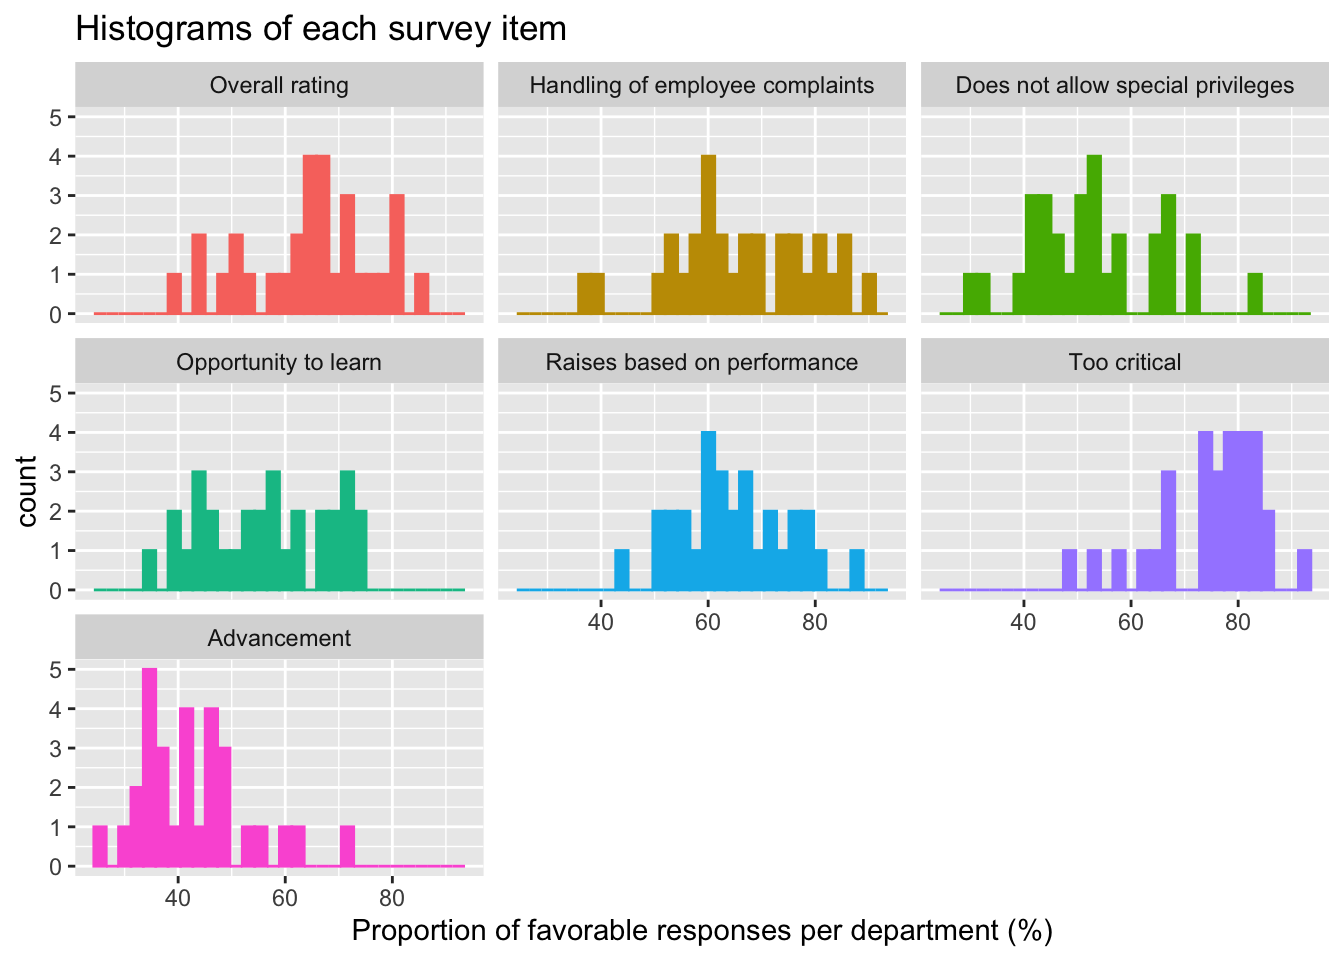
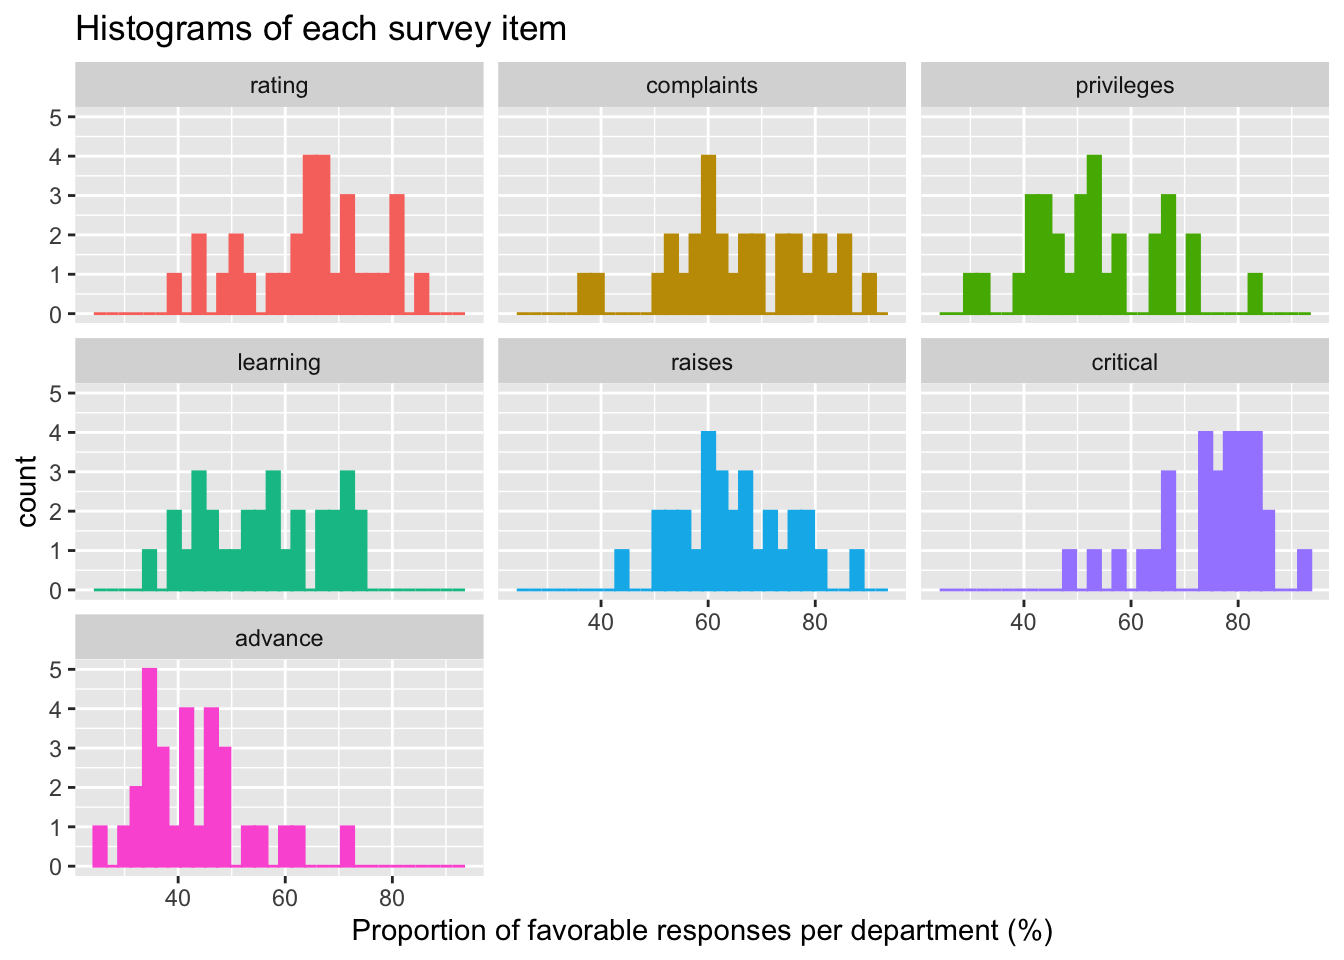
attitude example tables and text cleanup
streamlined variable text by adding a variable key table so shorter variable names could be used

diff --git a/docs/hypothesis_generation.html b/docs/hypothesis_generation.html
@@ -123,6 +123,7 @@ div.csl-indent {
     "search-label": "Search"
   }
 }</script>
+<link href="site_libs/htmltools-fill-0.5.8.1/fill.css" rel="stylesheet">
 <script src="site_libs/htmlwidgets-1.6.4/htmlwidgets.js"></script>
 <link href="site_libs/datatables-css-0.0.0/datatables-crosstalk.css" rel="stylesheet">
 <script src="site_libs/datatables-binding-0.33/datatables.js"></script>
@@ -132,7 +133,6 @@ div.csl-indent {
 <script src="site_libs/dt-core-1.13.6/js/jquery.dataTables.min.js"></script>
 <link href="site_libs/crosstalk-1.2.1/css/crosstalk.min.css" rel="stylesheet">
 <script src="site_libs/crosstalk-1.2.1/js/crosstalk.min.js"></script>
-<link href="site_libs/htmltools-fill-0.5.8.1/fill.css" rel="stylesheet">
 
   <script src="https://polyfill.io/v3/polyfill.min.js?features=es6"></script>
   <script src="https://cdn.jsdelivr.net/npm/mathjax@3/es5/tex-chtml-full.js" type="text/javascript"></script>
@@ -327,47 +327,85 @@ window.Quarto = {
 <p>In some cases, description and quantification of a phenomenon might itself satisfy your immediate research question. This is often the case when description alone is a considerable challenge, such as when a dataset is especially large or complex. The toolbox of descriptive analysis includes many techniques for summarizing and organizing a dataset to reveal its structure in human-readable terms.</p>
 <section id="initial-description-summary-statistics-and-distribution-visualizations" class="level4">
 <h4 class="anchored" data-anchor-id="initial-description-summary-statistics-and-distribution-visualizations">Initial description: summary statistics and distribution visualizations</h4>
-<p>Let’s use an example dataset from the <code>datasets</code> package in R to illustrate some of these descriptive analyses in action. The <code>attitude</code> dataset contains aggregated data from the Chatterjee-Price attitude survey, in which clerical employees across 30 departments of a large organization were asked to evaluate their employers on a series of topics. Each row of the data frame corresponds to one department, and the values in each column are the percent of favorable responses to each question from across employees sampled in a given department. The dataset is previewed in <a href="#tbl-attitude_example_data" class="quarto-xref">Table&nbsp;<span>1.1</span></a> (I’ve renamed the variables based on the <a href="https://rdrr.io/r/datasets/attitude.html">documentation</a> for interpretability).</p>
+<p>Let’s use an example dataset from the <code>datasets</code> package in R to illustrate some of these descriptive analyses in action.</p>
+<p>The <code>attitude</code> dataset contains aggregated data from the Chatterjee-Price attitude survey, in which clerical employees across 30 departments of a large organization were asked to evaluate their employers on a series of topics. These topic questions are organized into 7 variables, shown and described in <a href="#tbl-attitude_varnames_md" class="quarto-xref">Table&nbsp;<span>1.1</span></a> (descriptions derived from the dataset’s <a href="https://rdrr.io/r/datasets/attitude.html">documentation</a>).</p>
+<div id="tbl-attitude_varnames_md" class="quarto-float anchored">
+<figure class="quarto-float quarto-float-tbl figure">
+<figcaption class="quarto-float-caption-top quarto-float-caption quarto-float-tbl quarto-uncaptioned" id="tbl-attitude_varnames_md-caption-0ceaefa1-69ba-4598-a22c-09a6ac19f8ca">
+Table&nbsp;1.1
+</figcaption>
+<div aria-describedby="tbl-attitude_varnames_md-caption-0ceaefa1-69ba-4598-a22c-09a6ac19f8ca">
+<table class="table">
+<thead>
+<tr class="header">
+<th style="text-align: center;">Variable</th>
+<th style="text-align: left;">Item description</th>
+</tr>
+</thead>
+<tbody>
+<tr class="odd">
+<td style="text-align: center;"><code>rating</code></td>
+<td style="text-align: left;">Overall rating</td>
+</tr>
+<tr class="even">
+<td style="text-align: center;"><code>complaints</code></td>
+<td style="text-align: left;">Handling of employee complaints</td>
+</tr>
+<tr class="odd">
+<td style="text-align: center;"><code>privileges</code></td>
+<td style="text-align: left;">Does not allow special privileges</td>
+</tr>
+<tr class="even">
+<td style="text-align: center;"><code>learning</code></td>
+<td style="text-align: left;">Opportunity to learn</td>
+</tr>
+<tr class="odd">
+<td style="text-align: center;"><code>raises</code></td>
+<td style="text-align: left;">Raises based on performance</td>
+</tr>
+<tr class="even">
+<td style="text-align: center;"><code>critical</code></td>
+<td style="text-align: left;">Too critical</td>
+</tr>
+<tr class="odd">
+<td style="text-align: center;"><code>advance</code></td>
+<td style="text-align: left;">Advancement</td>
+</tr>
+</tbody>
+</table>
+</div>
+</figure>
+</div>
+<p>The complete <code>attitude</code> dataset is rendered in <a href="#tbl-attitude_example_data" class="quarto-xref">Table&nbsp;<span>1.2</span></a>. Each row of the data frame corresponds to one of the organization’s departments, and the values in each column are the percentages of favorable responses to each topic question given by the employees sampled in a given department.</p>
 <div class="cell">
 <details class="code-fold">
 <summary>Show code</summary>
 <div class="sourceCode cell-code" id="cb1"><pre class="sourceCode r code-with-copy"><code class="sourceCode r"><span id="cb1-1"><a href="#cb1-1" aria-hidden="true" tabindex="-1"></a><span class="co"># Load attitude data</span></span>
 <span id="cb1-2"><a href="#cb1-2" aria-hidden="true" tabindex="-1"></a><span class="fu">data</span>(<span class="st">"attitude"</span>)</span>
 <span id="cb1-3"><a href="#cb1-3" aria-hidden="true" tabindex="-1"></a></span>
-<span id="cb1-4"><a href="#cb1-4" aria-hidden="true" tabindex="-1"></a><span class="co"># Rename using full variable names from help file</span></span>
-<span id="cb1-5"><a href="#cb1-5" aria-hidden="true" tabindex="-1"></a>attitude_varnames_full <span class="ot">&lt;-</span> <span class="fu">c</span>(<span class="st">'Overall rating'</span>,</span>
-<span id="cb1-6"><a href="#cb1-6" aria-hidden="true" tabindex="-1"></a>                            <span class="st">'Handling of employee complaints'</span>,</span>
-<span id="cb1-7"><a href="#cb1-7" aria-hidden="true" tabindex="-1"></a>                            <span class="st">'Does not allow special privileges'</span>,</span>
-<span id="cb1-8"><a href="#cb1-8" aria-hidden="true" tabindex="-1"></a>                            <span class="st">'Opportunity to learn'</span>,</span>
-<span id="cb1-9"><a href="#cb1-9" aria-hidden="true" tabindex="-1"></a>                            <span class="st">'Raises based on performance'</span>,</span>
-<span id="cb1-10"><a href="#cb1-10" aria-hidden="true" tabindex="-1"></a>                            <span class="st">'Too critical'</span>,</span>
-<span id="cb1-11"><a href="#cb1-11" aria-hidden="true" tabindex="-1"></a>                            <span class="st">'Advancement'</span>)</span>
-<span id="cb1-12"><a href="#cb1-12" aria-hidden="true" tabindex="-1"></a><span class="fu">colnames</span>(attitude) <span class="ot">&lt;-</span> attitude_varnames_full</span>
-<span id="cb1-13"><a href="#cb1-13" aria-hidden="true" tabindex="-1"></a></span>
-<span id="cb1-14"><a href="#cb1-14" aria-hidden="true" tabindex="-1"></a><span class="co"># Data preview</span></span>
-<span id="cb1-15"><a href="#cb1-15" aria-hidden="true" tabindex="-1"></a><span class="fu">datatable</span>(attitude,</span>
-<span id="cb1-16"><a href="#cb1-16" aria-hidden="true" tabindex="-1"></a>          <span class="at">width =</span> <span class="dv">1000</span>,</span>
-<span id="cb1-17"><a href="#cb1-17" aria-hidden="true" tabindex="-1"></a>          <span class="at">caption =</span> htmltools<span class="sc">::</span>tags<span class="sc">$</span><span class="fu">caption</span>(</span>
-<span id="cb1-18"><a href="#cb1-18" aria-hidden="true" tabindex="-1"></a>            <span class="at">style =</span> <span class="st">'caption-side: bottom; text-align: left;'</span>,</span>
-<span id="cb1-19"><a href="#cb1-19" aria-hidden="true" tabindex="-1"></a>            <span class="st">'Direct preview of the Chatterjee-Price attitude survey data.'</span></span>
-<span id="cb1-20"><a href="#cb1-20" aria-hidden="true" tabindex="-1"></a>            ),</span>
-<span id="cb1-21"><a href="#cb1-21" aria-hidden="true" tabindex="-1"></a>          )</span></code><button title="Copy to Clipboard" class="code-copy-button"><i class="bi"></i></button></pre></div>
+<span id="cb1-4"><a href="#cb1-4" aria-hidden="true" tabindex="-1"></a><span class="co"># Data preview</span></span>
+<span id="cb1-5"><a href="#cb1-5" aria-hidden="true" tabindex="-1"></a><span class="fu">datatable</span>(attitude,</span>
+<span id="cb1-6"><a href="#cb1-6" aria-hidden="true" tabindex="-1"></a>          <span class="at">caption =</span> htmltools<span class="sc">::</span>tags<span class="sc">$</span><span class="fu">caption</span>(</span>
+<span id="cb1-7"><a href="#cb1-7" aria-hidden="true" tabindex="-1"></a>            <span class="at">style =</span> <span class="st">'caption-side: bottom; text-align: left;'</span>,</span>
+<span id="cb1-8"><a href="#cb1-8" aria-hidden="true" tabindex="-1"></a>            <span class="st">'Direct preview of the Chatterjee-Price attitude survey data.'</span></span>
+<span id="cb1-9"><a href="#cb1-9" aria-hidden="true" tabindex="-1"></a>            ),</span>
+<span id="cb1-10"><a href="#cb1-10" aria-hidden="true" tabindex="-1"></a>          )</span></code><button title="Copy to Clipboard" class="code-copy-button"><i class="bi"></i></button></pre></div>
 </details>
 <div id="tbl-attitude_example_data" class="cell quarto-float anchored">
 <figure class="quarto-float quarto-float-tbl figure">
 <figcaption class="quarto-float-caption-top quarto-float-caption quarto-float-tbl quarto-uncaptioned" id="tbl-attitude_example_data-caption-0ceaefa1-69ba-4598-a22c-09a6ac19f8ca">
-Table&nbsp;1.1
+Table&nbsp;1.2
 </figcaption>
 <div aria-describedby="tbl-attitude_example_data-caption-0ceaefa1-69ba-4598-a22c-09a6ac19f8ca">
 <div class="cell-output-display">
-<div id="htmlwidget-98e45a375563ade7b869" style="width:1000px;height:auto;" class="datatables html-widget"></div>
-<script type="application/json" data-for="htmlwidget-98e45a375563ade7b869">{"x":{"filter":"none","vertical":false,"caption":"<caption style=\"caption-side: bottom; text-align: left;\">Direct preview of the Chatterjee-Price attitude survey data.<\/caption>","data":[["1","2","3","4","5","6","7","8","9","10","11","12","13","14","15","16","17","18","19","20","21","22","23","24","25","26","27","28","29","30"],[43,63,71,61,81,43,58,71,72,67,64,67,69,68,77,81,74,65,65,50,50,64,53,40,63,66,78,48,85,82],[51,64,70,63,78,55,67,75,82,61,53,60,62,83,77,90,85,60,70,58,40,61,66,37,54,77,75,57,85,82],[30,51,68,45,56,49,42,50,72,45,53,47,57,83,54,50,64,65,46,68,33,52,52,42,42,66,58,44,71,39],[39,54,69,47,66,44,56,55,67,47,58,39,42,45,72,72,69,75,57,54,34,62,50,58,48,63,74,45,71,59],[61,63,76,54,71,54,66,70,71,62,58,59,55,59,79,60,79,55,75,64,43,66,63,50,66,88,80,51,77,64],[92,73,86,84,83,49,68,66,83,80,67,74,63,77,77,54,79,80,85,78,64,80,80,57,75,76,78,83,74,78],[45,47,48,35,47,34,35,41,31,41,34,41,25,35,46,36,63,60,46,52,33,41,37,49,33,72,49,38,55,39]],"container":"<table class=\"display\">\n  <thead>\n    <tr>\n      <th> <\/th>\n      <th>Overall rating<\/th>\n      <th>Handling of employee complaints<\/th>\n      <th>Does not allow special privileges<\/th>\n      <th>Opportunity to learn<\/th>\n      <th>Raises based on performance<\/th>\n      <th>Too critical<\/th>\n      <th>Advancement<\/th>\n    <\/tr>\n  <\/thead>\n<\/table>","options":{"dom":"tr","autoWidth":true,"scrollY":400,"scrollCollapse":true,"paging":false,"initComplete":"function(settings, json) {\n$('table').css({'font-size': '75%'});\n}","buttons":[],"columnDefs":[{"className":"dt-right","targets":[1,2,3,4,5,6,7]},{"orderable":false,"targets":0},{"name":" ","targets":0},{"name":"Overall rating","targets":1},{"name":"Handling of employee complaints","targets":2},{"name":"Does not allow special privileges","targets":3},{"name":"Opportunity to learn","targets":4},{"name":"Raises based on performance","targets":5},{"name":"Too critical","targets":6},{"name":"Advancement","targets":7}],"order":[],"orderClasses":false}},"evals":["options.initComplete"],"jsHooks":[]}</script>
+<div class="datatables html-widget html-fill-item" id="htmlwidget-eed1d440173b2e82abbc" style="width:100%;height:auto;"></div>
+<script type="application/json" data-for="htmlwidget-eed1d440173b2e82abbc">{"x":{"filter":"none","vertical":false,"caption":"<caption style=\"caption-side: bottom; text-align: left;\">Direct preview of the Chatterjee-Price attitude survey data.<\/caption>","data":[["1","2","3","4","5","6","7","8","9","10","11","12","13","14","15","16","17","18","19","20","21","22","23","24","25","26","27","28","29","30"],[43,63,71,61,81,43,58,71,72,67,64,67,69,68,77,81,74,65,65,50,50,64,53,40,63,66,78,48,85,82],[51,64,70,63,78,55,67,75,82,61,53,60,62,83,77,90,85,60,70,58,40,61,66,37,54,77,75,57,85,82],[30,51,68,45,56,49,42,50,72,45,53,47,57,83,54,50,64,65,46,68,33,52,52,42,42,66,58,44,71,39],[39,54,69,47,66,44,56,55,67,47,58,39,42,45,72,72,69,75,57,54,34,62,50,58,48,63,74,45,71,59],[61,63,76,54,71,54,66,70,71,62,58,59,55,59,79,60,79,55,75,64,43,66,63,50,66,88,80,51,77,64],[92,73,86,84,83,49,68,66,83,80,67,74,63,77,77,54,79,80,85,78,64,80,80,57,75,76,78,83,74,78],[45,47,48,35,47,34,35,41,31,41,34,41,25,35,46,36,63,60,46,52,33,41,37,49,33,72,49,38,55,39]],"container":"<table class=\"display\">\n  <thead>\n    <tr>\n      <th> <\/th>\n      <th>rating<\/th>\n      <th>complaints<\/th>\n      <th>privileges<\/th>\n      <th>learning<\/th>\n      <th>raises<\/th>\n      <th>critical<\/th>\n      <th>advance<\/th>\n    <\/tr>\n  <\/thead>\n<\/table>","options":{"dom":"tr","autoWidth":true,"scrollY":400,"scrollCollapse":true,"paging":false,"initComplete":"function(settings, json) {\n$('table').css({'font-size': '85%'});\n}","buttons":[],"columnDefs":[{"className":"dt-right","targets":[1,2,3,4,5,6,7]},{"orderable":false,"targets":0},{"name":" ","targets":0},{"name":"rating","targets":1},{"name":"complaints","targets":2},{"name":"privileges","targets":3},{"name":"learning","targets":4},{"name":"raises","targets":5},{"name":"critical","targets":6},{"name":"advance","targets":7}],"order":[],"orderClasses":false}},"evals":["options.initComplete"],"jsHooks":[]}</script>
 </div>
 </div>
 </figure>
 </div>
 </div>
-<p>As a first step in organizing these data to understand them better, we typically compute <em>summary statistics</em>: metrics that help characterize the distributions of our variables. These are generally metrics indicating the location (mean, median, etc.) and dispersion (standard deviation, quartile range, etc.) of a given variable’s distribution. <a href="#tbl-attitude_example_table" class="quarto-xref">Table&nbsp;<span>1.2</span></a> is an example summary table for our employee attitude data (computed using the <code>sumtable()</code> function from the <code>vtable</code> package in R):</p>
+<p>As a first step in organizing these data to understand them better, we typically compute <em>summary statistics</em>: metrics that help characterize the distributions of our variables. These are generally metrics indicating the location (mean, median, etc.) and dispersion (standard deviation, quartile range, etc.) of a given variable’s distribution. <a href="#tbl-attitude_example_table" class="quarto-xref">Table&nbsp;<span>1.3</span></a> is an example summary table for our employee attitude data (computed using the <code>sumtable()</code> function from the <code>vtable</code> package in R):</p>
 <div class="cell">
 <details class="code-fold">
 <summary>Show code</summary>
@@ -382,12 +420,12 @@ Table&nbsp;1.1
 <div id="tbl-attitude_example_table" class="cell quarto-float anchored">
 <figure class="quarto-float quarto-float-tbl figure">
 <figcaption class="quarto-float-caption-top quarto-float-caption quarto-float-tbl quarto-uncaptioned" id="tbl-attitude_example_table-caption-0ceaefa1-69ba-4598-a22c-09a6ac19f8ca">
-Table&nbsp;1.2
+Table&nbsp;1.3
 </figcaption>
 <div aria-describedby="tbl-attitude_example_table-caption-0ceaefa1-69ba-4598-a22c-09a6ac19f8ca">
 <div class="cell-output-display">
-<div class="datatables html-widget html-fill-item" id="htmlwidget-e976eda120228a8ee9f6" style="width:100%;height:auto;"></div>
-<script type="application/json" data-for="htmlwidget-e976eda120228a8ee9f6">{"x":{"filter":"none","vertical":false,"caption":"<caption style=\"caption-side: bottom; text-align: left;\">Summary statistics table for attitude dataset by variable.<\/caption>","data":[["1","2","3","4","5","6","7"],["Overall rating","Handling of employee complaints","Does not allow special privileges","Opportunity to learn","Raises based on performance","Too critical","Advancement"],["30","30","30","30","30","30","30"],["65","67","53","56","65","75","43"],["12","13","12","12","10","9.9","10"],["40","37","30","34","43","49","25"],["59","58","45","47","58","69","35"],["72","77","62","67","71","80","48"],["85","90","83","75","88","92","72"]],"container":"<table class=\"display\">\n  <thead>\n    <tr>\n      <th> <\/th>\n      <th>Variable<\/th>\n      <th>N<\/th>\n      <th>Mean<\/th>\n      <th>Std. Dev.<\/th>\n      <th>Min<\/th>\n      <th>Pctl. 25<\/th>\n      <th>Pctl. 75<\/th>\n      <th>Max<\/th>\n    <\/tr>\n  <\/thead>\n<\/table>","options":{"dom":"tr","autoWidth":true,"scrollY":400,"scrollCollapse":true,"paging":false,"initComplete":"function(settings, json) {\n$('table').css({'font-size': '75%'});\n}","buttons":[],"columnDefs":[{"orderable":false,"targets":0},{"name":" ","targets":0},{"name":"Variable","targets":1},{"name":"N","targets":2},{"name":"Mean","targets":3},{"name":"Std. Dev.","targets":4},{"name":"Min","targets":5},{"name":"Pctl. 25","targets":6},{"name":"Pctl. 75","targets":7},{"name":"Max","targets":8}],"order":[],"orderClasses":false}},"evals":["options.initComplete"],"jsHooks":[]}</script>
+<div class="datatables html-widget html-fill-item" id="htmlwidget-5282e8dae3048e565bad" style="width:100%;height:auto;"></div>
+<script type="application/json" data-for="htmlwidget-5282e8dae3048e565bad">{"x":{"filter":"none","vertical":false,"caption":"<caption style=\"caption-side: bottom; text-align: left;\">Summary statistics table for attitude dataset by variable.<\/caption>","data":[["1","2","3","4","5","6","7"],["rating","complaints","privileges","learning","raises","critical","advance"],["30","30","30","30","30","30","30"],["65","67","53","56","65","75","43"],["12","13","12","12","10","9.9","10"],["40","37","30","34","43","49","25"],["59","58","45","47","58","69","35"],["72","77","62","67","71","80","48"],["85","90","83","75","88","92","72"]],"container":"<table class=\"display\">\n  <thead>\n    <tr>\n      <th> <\/th>\n      <th>Variable<\/th>\n      <th>N<\/th>\n      <th>Mean<\/th>\n      <th>Std. Dev.<\/th>\n      <th>Min<\/th>\n      <th>Pctl. 25<\/th>\n      <th>Pctl. 75<\/th>\n      <th>Max<\/th>\n    <\/tr>\n  <\/thead>\n<\/table>","options":{"dom":"tr","autoWidth":true,"scrollY":400,"scrollCollapse":true,"paging":false,"initComplete":"function(settings, json) {\n$('table').css({'font-size': '85%'});\n}","buttons":[],"columnDefs":[{"orderable":false,"targets":0},{"name":" ","targets":0},{"name":"Variable","targets":1},{"name":"N","targets":2},{"name":"Mean","targets":3},{"name":"Std. Dev.","targets":4},{"name":"Min","targets":5},{"name":"Pctl. 25","targets":6},{"name":"Pctl. 75","targets":7},{"name":"Max","targets":8}],"order":[],"orderClasses":false}},"evals":["options.initComplete"],"jsHooks":[]}</script>
 </div>
 </div>
 </figure>
@@ -400,7 +438,7 @@ Table&nbsp;1.2
 <div class="sourceCode cell-code" id="cb3"><pre class="sourceCode r code-with-copy"><code class="sourceCode r"><span id="cb3-1"><a href="#cb3-1" aria-hidden="true" tabindex="-1"></a><span class="co"># Plot of all variable histograms in separate panels (facets)</span></span>
 <span id="cb3-2"><a href="#cb3-2" aria-hidden="true" tabindex="-1"></a><span class="fu">ggplot</span>(<span class="at">data =</span> attitude <span class="sc">%&gt;%</span></span>
 <span id="cb3-3"><a href="#cb3-3" aria-hidden="true" tabindex="-1"></a>         <span class="fu">pivot_longer</span>(<span class="at">cols =</span> <span class="fu">everything</span>()) <span class="sc">%&gt;%</span></span>
-<span id="cb3-4"><a href="#cb3-4" aria-hidden="true" tabindex="-1"></a>         <span class="fu">mutate</span>(<span class="st">`</span><span class="at">Survey item</span><span class="st">`</span> <span class="ot">=</span> <span class="fu">factor</span>(name, <span class="at">levels =</span> attitude_varnames_full))) <span class="sc">+</span></span>
+<span id="cb3-4"><a href="#cb3-4" aria-hidden="true" tabindex="-1"></a>         <span class="fu">mutate</span>(<span class="st">`</span><span class="at">Survey item</span><span class="st">`</span> <span class="ot">=</span> <span class="fu">factor</span>(name, <span class="at">levels =</span> <span class="fu">colnames</span>(attitude)))) <span class="sc">+</span></span>
 <span id="cb3-5"><a href="#cb3-5" aria-hidden="true" tabindex="-1"></a>  <span class="fu">geom_histogram</span>(<span class="fu">aes</span>(<span class="at">x =</span> value, <span class="at">color =</span> <span class="st">`</span><span class="at">Survey item</span><span class="st">`</span>, <span class="at">fill =</span> <span class="st">`</span><span class="at">Survey item</span><span class="st">`</span>)) <span class="sc">+</span></span>
 <span id="cb3-6"><a href="#cb3-6" aria-hidden="true" tabindex="-1"></a>  <span class="fu">xlab</span>(<span class="st">'Proportion of favorable responses per department (%)'</span>) <span class="sc">+</span></span>
 <span id="cb3-7"><a href="#cb3-7" aria-hidden="true" tabindex="-1"></a>  <span class="fu">ggtitle</span>(<span class="st">'Histograms of each survey item'</span>) <span class="sc">+</span> </span>
@@ -427,7 +465,7 @@ Figure&nbsp;1.1: Histograms of variable distributions in attitude survey dataset
 <div class="sourceCode cell-code" id="cb4"><pre class="sourceCode r code-with-copy"><code class="sourceCode r"><span id="cb4-1"><a href="#cb4-1" aria-hidden="true" tabindex="-1"></a><span class="co"># Combined plot of distributions visualized across multiple methods at once</span></span>
 <span id="cb4-2"><a href="#cb4-2" aria-hidden="true" tabindex="-1"></a><span class="fu">ggplot</span>(<span class="at">data =</span> attitude <span class="sc">%&gt;%</span></span>
 <span id="cb4-3"><a href="#cb4-3" aria-hidden="true" tabindex="-1"></a>         <span class="fu">pivot_longer</span>(<span class="at">cols =</span> <span class="fu">everything</span>()) <span class="sc">%&gt;%</span></span>
-<span id="cb4-4"><a href="#cb4-4" aria-hidden="true" tabindex="-1"></a>         <span class="fu">mutate</span>(<span class="st">`</span><span class="at">Survey item</span><span class="st">`</span> <span class="ot">=</span> <span class="fu">factor</span>(name, <span class="at">levels =</span> attitude_varnames_full)),</span>
+<span id="cb4-4"><a href="#cb4-4" aria-hidden="true" tabindex="-1"></a>         <span class="fu">mutate</span>(<span class="st">`</span><span class="at">Survey item</span><span class="st">`</span> <span class="ot">=</span> <span class="fu">factor</span>(name, <span class="at">levels =</span> <span class="fu">colnames</span>(attitude))),</span>
 <span id="cb4-5"><a href="#cb4-5" aria-hidden="true" tabindex="-1"></a>       <span class="fu">aes</span>(<span class="at">x =</span> <span class="st">`</span><span class="at">Survey item</span><span class="st">`</span>, <span class="at">y =</span> value, <span class="at">fill =</span> <span class="st">`</span><span class="at">Survey item</span><span class="st">`</span>)) <span class="sc">+</span></span>
 <span id="cb4-6"><a href="#cb4-6" aria-hidden="true" tabindex="-1"></a>  <span class="fu">stat_halfeye</span>(<span class="at">alpha =</span> .<span class="dv">8</span>, <span class="at">adjust =</span> .<span class="dv">5</span>, <span class="at">justification =</span> <span class="sc">-</span>.<span class="dv">2</span>) <span class="sc">+</span></span>
 <span id="cb4-7"><a href="#cb4-7" aria-hidden="true" tabindex="-1"></a>  <span class="fu">geom_boxplot</span>(<span class="at">width =</span> .<span class="dv">2</span>) <span class="sc">+</span></span>
